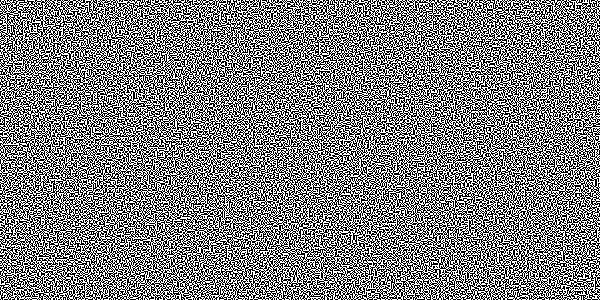
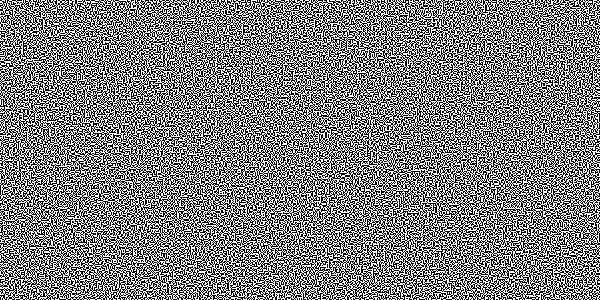
Changed text

diff --git a/main.py b/main.py
@@ -86,6 +86,6 @@ def create_combination(out_image_A, out_image_B):
     out_image_combined.save(out_filename_combined, 'PNG')
     print("Combined image saved as: {}".format(out_filename_combined))
 
-original_image = create_original_image(300, 150, "zxjhvkdfgiuer84")
+original_image = create_original_image(300, 150, "cohen")
 (share_img_A, share_img_B) = create_shares(original_image)
 create_combination(share_img_A, share_img_B)
